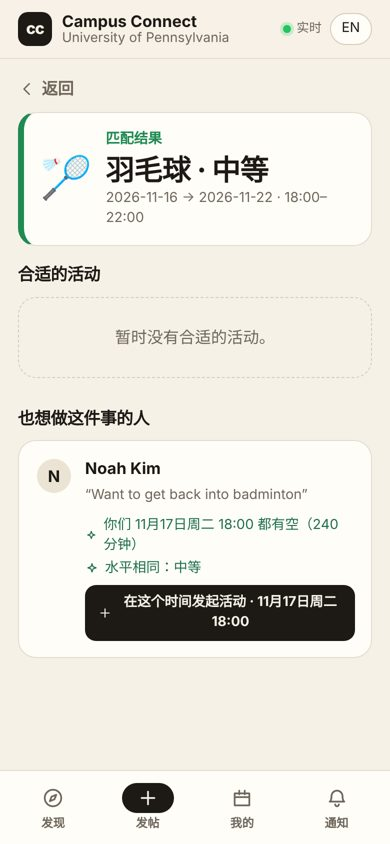
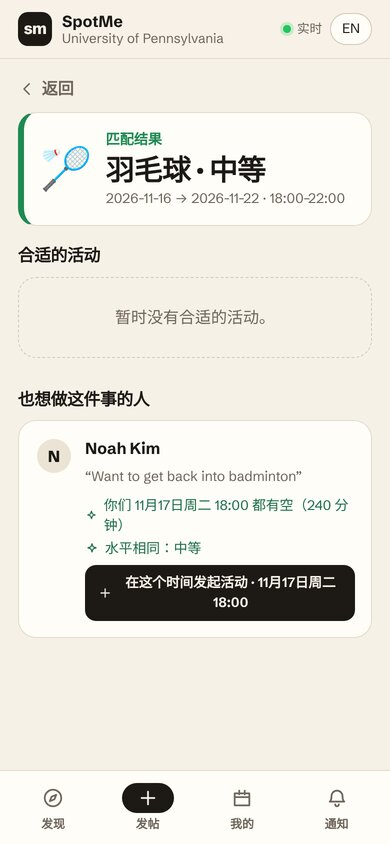
Rename the project to SpotMe

diff --git a/web/src/GoogleMap.tsx b/web/src/GoogleMap.tsx
@@ -4,7 +4,7 @@ import { emojiFor } from "./ui";
 
 declare global {
   interface Window {
-    __ccMapsReady?: () => void;
+    __spotmeMapsReady?: () => void;
     /** Called by the Maps API when the key is rejected (wrong referrer, billing off). */
     gm_authFailure?: () => void;
   }
@@ -16,9 +16,9 @@ let loading: Promise<void> | null = null;
 function loadMaps(key: string, lang: string): Promise<void> {
   if ((window as { google?: typeof google }).google?.maps?.importLibrary) return Promise.resolve();
   loading ??= new Promise<void>((resolve, reject) => {
-    window.__ccMapsReady = () => resolve();
+    window.__spotmeMapsReady = () => resolve();
     const s = document.createElement("script");
-    s.src = `https://maps.googleapis.com/maps/api/js?key=${encodeURIComponent(key)}&loading=async&callback=__ccMapsReady&v=weekly&language=${lang}`;
+    s.src = `https://maps.googleapis.com/maps/api/js?key=${encodeURIComponent(key)}&loading=async&callback=__spotmeMapsReady&v=weekly&language=${lang}`;
     s.async = true;
     s.onerror = () => {
       loading = null;

diff --git a/web/src/i18n.tsx b/web/src/i18n.tsx
@@ -3,7 +3,7 @@ import { createContext, useContext, useMemo, useState, type ReactNode } from "re
 export type Lang = "en" | "zh";
 
 const en = {
-  "app.name": "Campus Connect",
+  "app.name": "SpotMe",
   "app.tagline": "Find a buddy at your school.",
   "nav.discover": "Discover", "nav.post": "Post", "nav.mine": "Mine", "nav.inbox": "Inbox",
   "auth.title": "Never play, eat or study alone.",
@@ -69,7 +69,7 @@ const en = {
 type Key = keyof typeof en;
 
 const zh: Record<Key, string> = {
-  "app.name": "Campus Connect",
+  "app.name": "SpotMe",
   "app.tagline": "在本校找搭子。",
   "nav.discover": "发现", "nav.post": "发帖", "nav.mine": "我的", "nav.inbox": "通知",
   "auth.title": "打球、吃饭、自习，不再一个人。",
@@ -146,7 +146,7 @@ interface Ctx {
 }
 
 const I18n = createContext<Ctx | null>(null);
-const KEY = "cc.lang";
+const KEY = "spotme.lang";
 
 export function I18nProvider({ children }: { children: ReactNode }) {
   const [lang, setLangState] = useState<Lang>(() => {

diff --git a/web/src/App.tsx b/web/src/App.tsx
@@ -38,15 +38,15 @@ function Shell() {
   const text = useNotificationText();
   useEffect(() => {
     const h = (e: Event) => s.flash(text((e as CustomEvent<Notification>).detail));
-    addEventListener("cc:notification", h);
-    return () => removeEventListener("cc:notification", h);
+    addEventListener("spotme:notification", h);
+    return () => removeEventListener("spotme:notification", h);
   }, [s.flash, text]);
   const r = s.route;
   return (
     <div className="shell">
       <header className="top">
         <button className="brand" onClick={() => s.go({ name: "discover" })}>
-          <span className="logo">cc</span>
+          <span className="logo">sm</span>
           <span className="brand-text"><b>{t("app.name")}</b><small>{s.me.school.name}</small></span>
         </button>
         <div className="top-right">

diff --git a/server/src/index.ts b/server/src/index.ts
@@ -8,7 +8,7 @@ import { connect } from "./db.js";
 import { attachRealtime, nullHub, type Hub } from "./realtime.js";
 
 const port = Number(process.env.PORT ?? 8787);
-const uri = process.env.MONGODB_URI ?? "mongodb://127.0.0.1:27017/campus-connect";
+const uri = process.env.MONGODB_URI ?? "mongodb://127.0.0.1:27017/spotme";
 const cfg = authConfigFromEnv();
 await connect(uri);
 
@@ -32,4 +32,4 @@ const tick = () => services.sweep().catch((e) => console.error("sweep failed", e
 setInterval(tick, 30_000).unref();
 void tick();
 
-server.listen(port, () => console.log(`Campus Connect listening on http://localhost:${port}`));
+server.listen(port, () => console.log(`SpotMe listening on http://localhost:${port}`));

diff --git a/web/index.html b/web/index.html
@@ -4,8 +4,8 @@
     <meta charset="UTF-8" />
     <meta name="viewport" content="width=device-width, initial-scale=1.0, viewport-fit=cover" />
     <meta name="theme-color" content="#f6f1e7" />
-    <meta name="description" content="Campus Connect: find a buddy at your school for sports, meals, study, movies and trips." />
-    <title>Campus Connect</title>
+    <meta name="description" content="SpotMe: find a buddy at your school for sports, meals, study, movies and trips." />
+    <title>SpotMe</title>
   </head>
   <body>
     <div id="root"></div>

diff --git a/web/src/views/Auth.tsx b/web/src/views/Auth.tsx
@@ -78,7 +78,7 @@ export function Auth({ onIn }: { onIn(m: Me): void }) {
       </div>
       <div className="auth-body">
         <div className="row between">
-          <span className="brand static"><span className="logo">cc</span><b>{t("app.name")}</b></span>
+          <span className="brand static"><span className="logo">sm</span><b>{t("app.name")}</b></span>
           <button className="lang" onClick={() => setLang(lang === "en" ? "zh" : "en")}>{lang === "en" ? "中文" : "EN"}</button>
         </div>
         <h1>{t("auth.title")}</h1>

diff --git a/web/src/store.tsx b/web/src/store.tsx
@@ -84,7 +84,7 @@ export function StoreProvider({ me: initialMe, onLogout, children }: { me: Me; o
       setNotifications((xs) => [n, ...xs.filter((x) => x.id !== n.id)].slice(0, 50));
       setUnread((u) => u + 1);
       setVersion((v) => v + 1);
-      window.dispatchEvent(new CustomEvent("cc:notification", { detail: n }));
+      window.dispatchEvent(new CustomEvent("spotme:notification", { detail: n }));
     });
     s.on("activity", () => setVersion((v) => v + 1));
     return () => {

diff --git a/server/src/seedDemo.ts b/server/src/seedDemo.ts
@@ -14,7 +14,7 @@ const P = {
   chinatown: { lat: 39.9555, lng: -75.1550 }, thirtieth: { lat: 39.9557, lng: -75.1820 },
 };
 
-await connect(process.env.MONGODB_URI ?? "mongodb://127.0.0.1:27017/campus-connect");
+await connect(process.env.MONGODB_URI ?? "mongodb://127.0.0.1:27017/spotme");
 if (process.argv.includes("--reset")) await mongoose.connection.dropDatabase();
 await Promise.all(Object.values(mongoose.models).map((m) => m.syncIndexes()));
 

diff --git a/web/src/styles.css b/web/src/styles.css
@@ -1,4 +1,4 @@
-/* Campus Connect: a noticeboard on warm paper. Ink type, one color per kind of
+/* SpotMe: a noticeboard on warm paper. Ink type, one color per kind of
    plan, cards that read like tickets. Mobile first; two columns on desktop. */
 :root {
   --paper: #f6f1e7;

diff --git a/web/src/api.ts b/web/src/api.ts
@@ -39,7 +39,7 @@ export class ApiError extends Error {
   }
 }
 
-const TOKEN = "cc.token";
+const TOKEN = "spotme.token";
 let token: string | null = (() => {
   try {
     return localStorage.getItem(TOKEN);

diff --git a/README.md b/README.md
@@ -1,6 +1,6 @@
-# Campus Connect
+# SpotMe
 
-Find a buddy at your school, for a game, a meal, a study session, a movie or a trip. Post a plan ("badminton Wednesday 6–8 pm, need 3, fill by 4 pm") or just say you're free ("badminton, weekday evenings this week, intermediate"). Campus Connect matches people at the same school, explains each match, and pushes updates in real time. Works for any university: the email domain decides the school. English and Chinese, mobile first.
+Find a buddy at your school, for a game, a meal, a study session, a movie or a trip. Post a plan ("badminton Wednesday 6–8 pm, need 3, fill by 4 pm") or just say you're free ("badminton, weekday evenings this week, intermediate"). SpotMe matches people at the same school, explains each match, and pushes updates in real time. Works for any university: the email domain decides the school. English and Chinese, mobile first.
 
 | Sign up (中文) | Discover | Plan (中文) | Matches (中文) | Live update |
 | --- | --- | --- | --- | --- |
